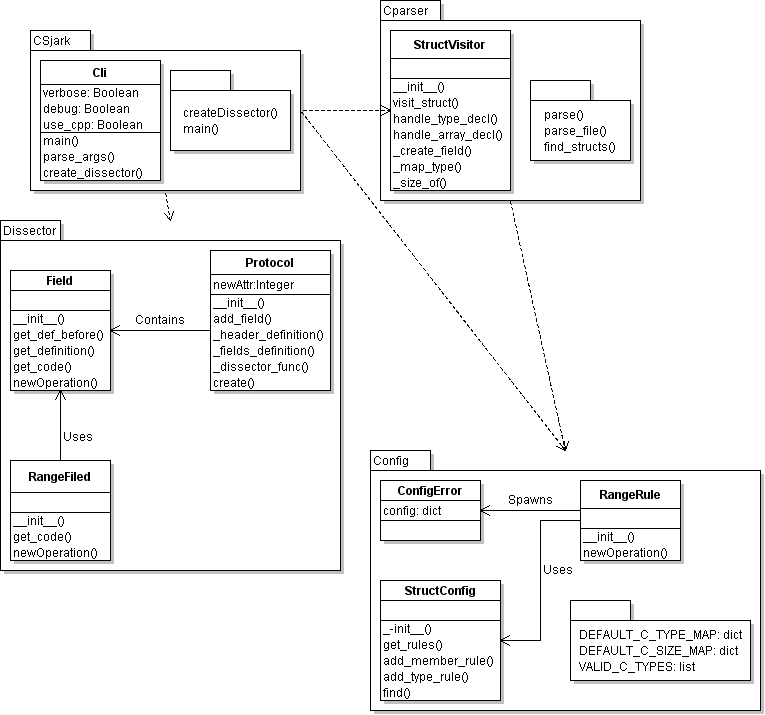
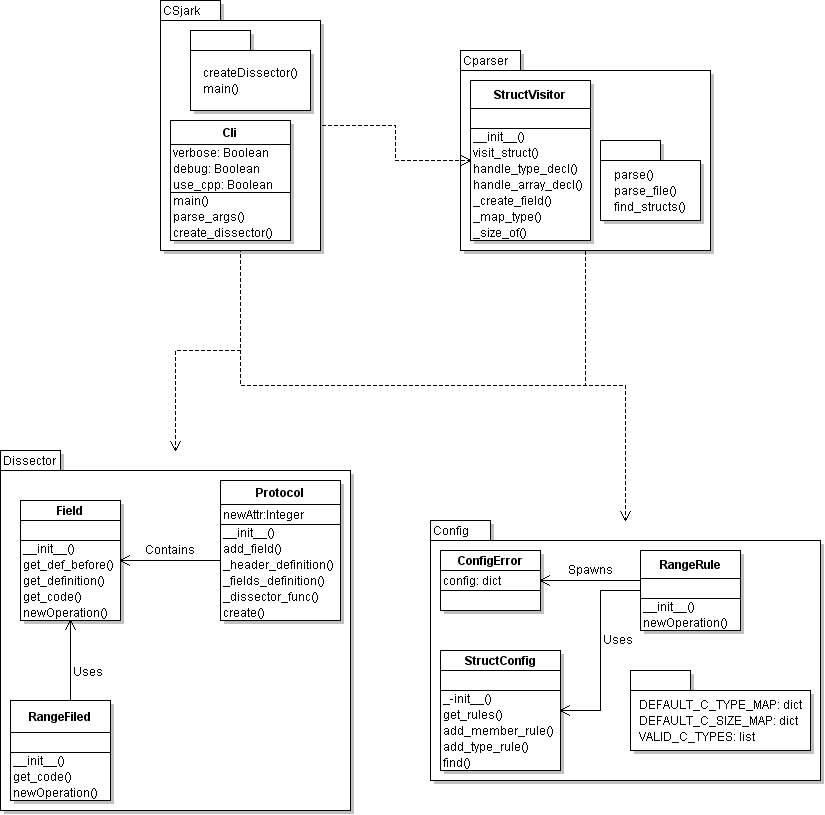
pretty much finished the design part for sprint 2 and updated the diagrams once again! Lets hope Even doesn't decide to break the design again during this sprint!

diff --git a/report/sprints/sprint2.tex b/report/sprints/sprint2.tex
@@ -165,11 +165,11 @@ The second sprint we will implement thirteen requirements. These are listed in T
 %----------------------
 \section{System Design}
 %----------------------
-For sprint 2 the team decided to refactor some of the code in order to make it easier to read and to split the functionalities of the utility in such a way that it reduces coupling within the system.Some new functionality was also added on the parser side in order to get the utility to recognize the datatypes mentioned in the sprint 2 backlog. Other than that, most of the design didn't change from sprint 1
+For sprint 2 the team decided to refactor some of the code in order to make it easier to read and to split the functionalities of the utility in such a way that it reduces coupling within the system.Some new functionality was also added on the parser side in order to get the utility to recognize the datatypes mentioned in the sprint 2 backlog. Other than that, there were no other changes or additions made to the design during sprint 2.
 
 \subsection{Utility}
 %--------------------
-\autoref{fig:sp2:class} ilustrates the class diagram the team made for sprint 2. The main difference from sprint 1 was the creation of the wireshark module where the team gathered most of the functionality for creating dissector fields and looking up default C-types and their sizes. The developers also added new functionality to the config and dissector modules that handles the datatypes the utility was slated to support for sprint 2.
+\autoref{fig:sp2:class} shows the class diagram the team made for sprint 2. The main differences from sprint 1 are the additions of new classes, extending the functionality of the utility so that the utility can handle more domplex header files than it could before. The developers also generalized some of the modules and used inheritance to support the re-use of code 
 \begin{figure}[!htb]
 	\center
 	\includegraphics[width=\textwidth]{./sprints/img/class_diagram_s2}
